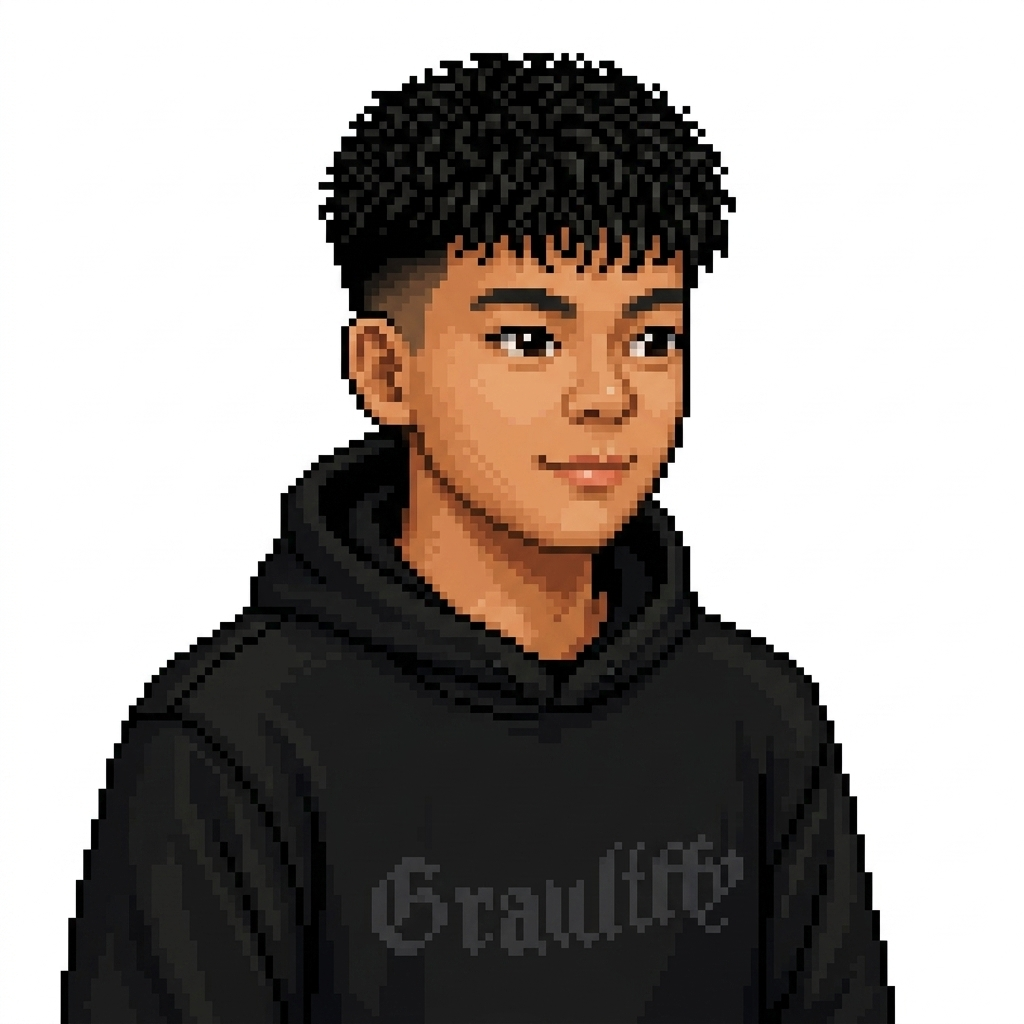
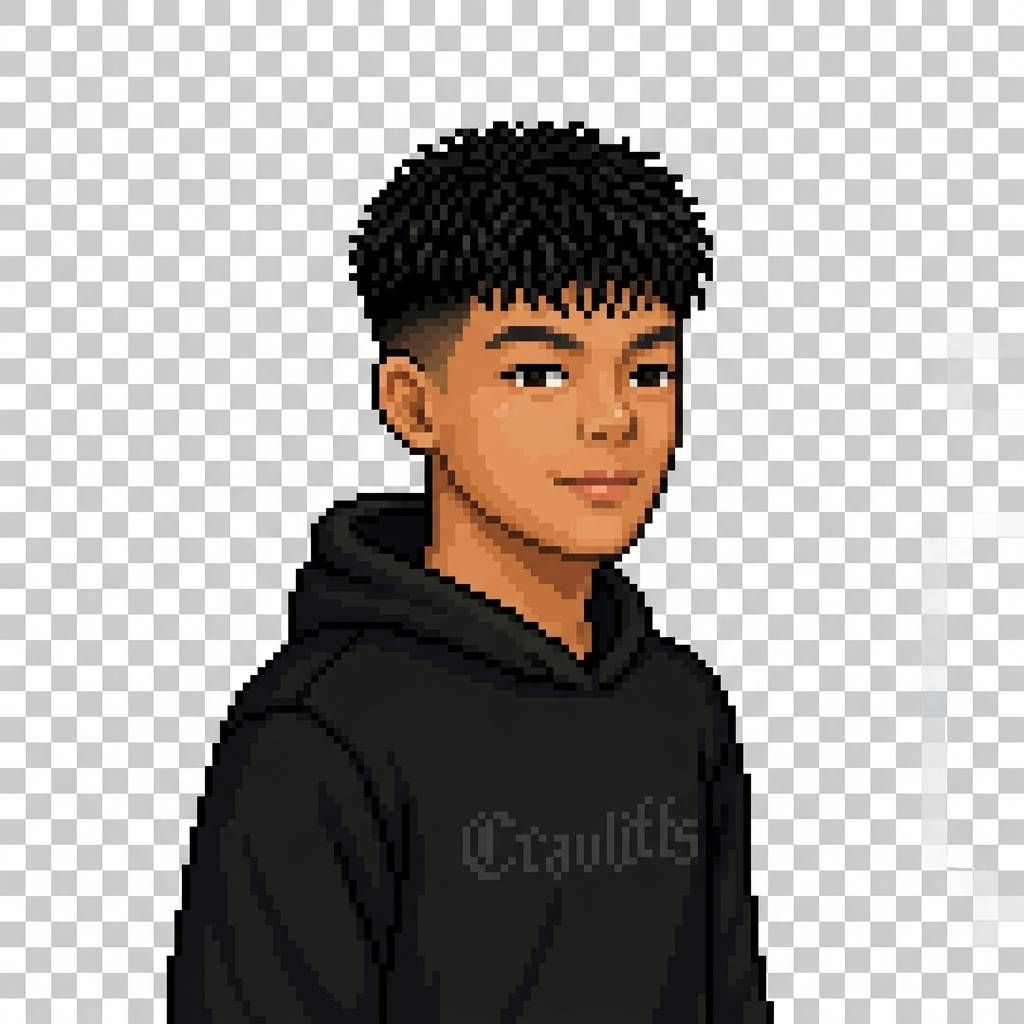
Apply Gold RPG Frame to character bust for a premium VN look

diff --git a/style.css b/style.css
@@ -89,20 +89,32 @@ body {
 
 .character-bust {
     position: absolute;
-    bottom: 80px;
-    left: 50px;
-    width: 400px;
-    height: 400px;
+    bottom: 50px;
+    left: 40px;
+    width: 320px;
+    height: 320px;
     z-index: 4;
-    transition: transform 0.3s ease;
+    border: 6px solid #ffd700;
+    box-shadow: 0 0 20px rgba(255, 215, 0, 0.4), inset 0 0 20px rgba(0,0,0,0.5);
+    background: #000;
+    display: flex;
+    justify-content: center;
+    align-items: center;
+    overflow: hidden;
+}
+
+.character-bust::before {
+    content: '';
+    position: absolute;
+    top: -10px; left: -10px; right: -10px; bottom: -10px;
+    border: 2px solid #fff;
+    pointer-events: none;
 }
 
 .character-bust img {
-    width: 100%;
-    height: 100%;
-    object-fit: contain;
-    /* Remove white background trick */
-    mix-blend-mode: multiply;
+    width: 110%; /* Slight zoom to hide edges */
+    height: 110%;
+    object-fit: cover;
 }
 
 .interaction-prompt {
